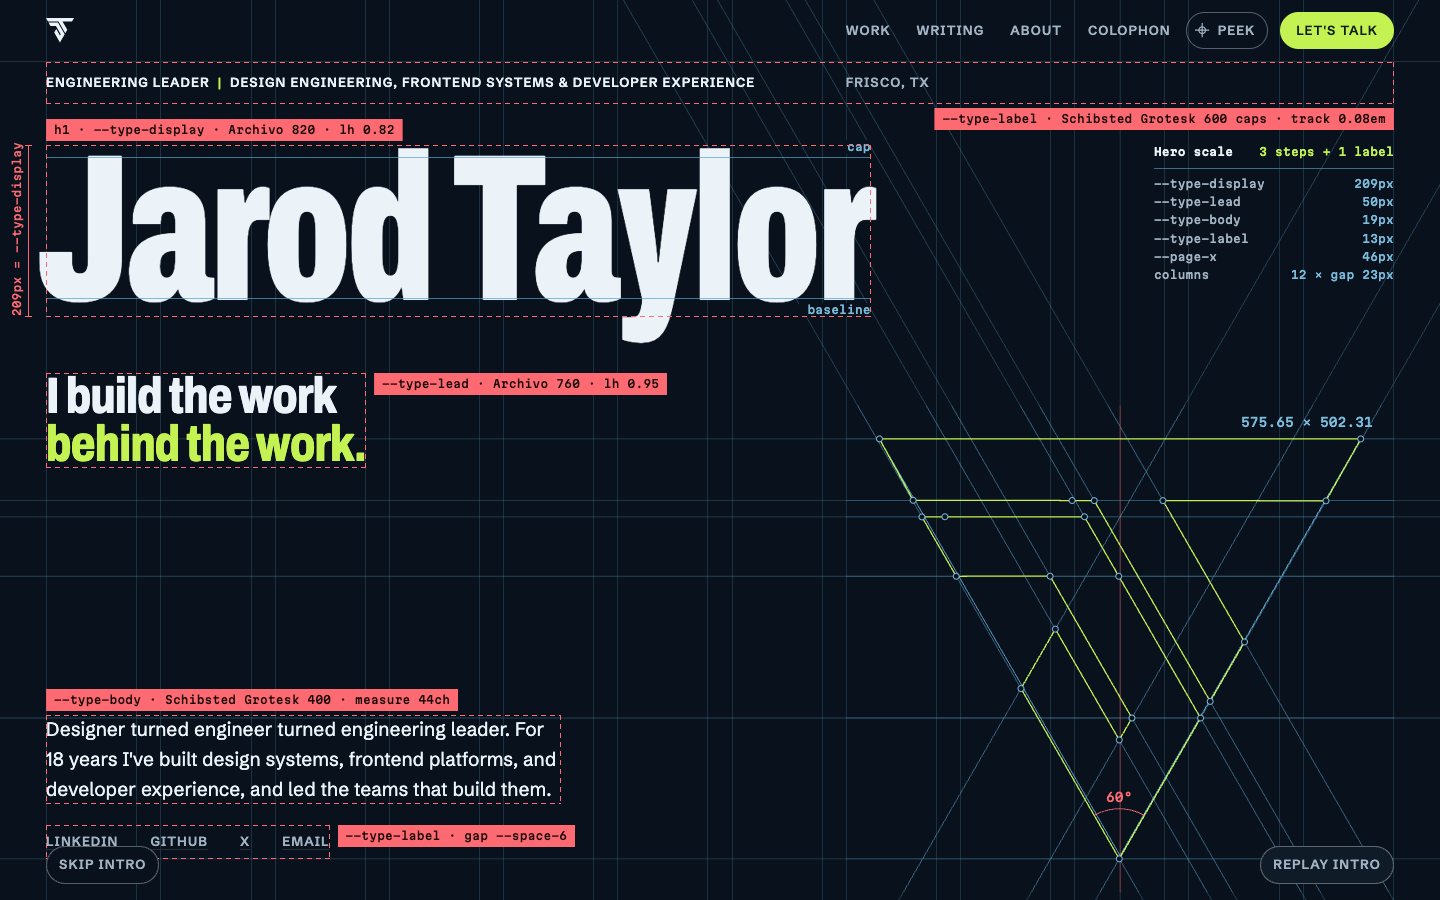
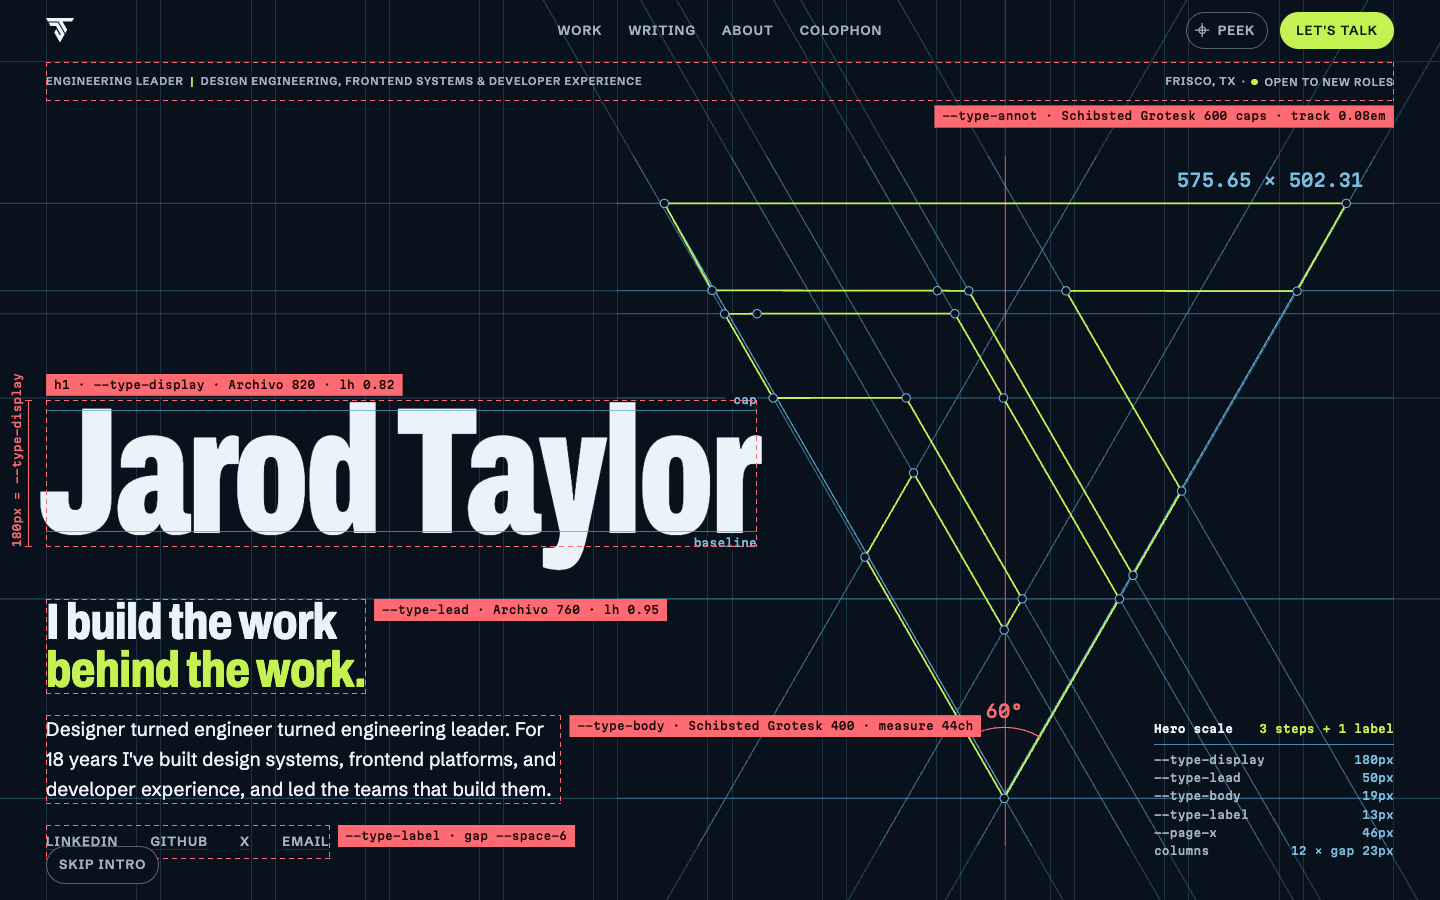
proto(r6-backstage): default brand tweaks: bottom-left stack, centred mark, 3-zone header, status in info strip

diff --git a/prototypes/r6-backstage/styles.css b/prototypes/r6-backstage/styles.css
@@ -41,7 +41,9 @@
   --type-annot: clamp(0.6875rem, 0.5rem + 0.2vw, 0.875rem); /* backstage only: the Peek layer's measurements */
   --measure: 44ch;
   --mark-phone: 0.3;   /* the monogram's strength behind the name on a phone (tools/contrast.mjs checks it) */
-  --mark-h: 64svh;     /* the monogram's tallest size on wide screens; its column width caps it first */
+  /* The monogram's tallest size on wide screens: the whole hero, header and info strip taken out.
+     Its column width caps it first on anything narrower than about 16:10. */
+  --mark-h: calc(100svh - var(--header-h) - 2 * var(--rhythm) - 4rem);
 
   /* Motion: one decisive in-out for anything that draws, an expo-out for anything that arrives. */
   --ease-out: cubic-bezier(0.16, 1, 0.3, 1);
@@ -94,7 +96,7 @@
   :root {
     --cols: 12;
     /* One line of name, sized by whichever runs out first: width or height. */
-    --type-display: min(14.5vw, 24svh);
+    --type-display: min(12.5vw, 21svh);
     --type-lead: min(3.5vw, 5.8svh);
   }
 }
@@ -154,8 +156,7 @@ ul { padding: 0; list-style: none; }
 .talk,
 .info,
 .social,
-.skip-intro,
-.dev {
+.skip-intro {
   font-family: var(--font-text);
   font-size: var(--type-label);
   font-weight: 600;
@@ -295,29 +296,23 @@ main { display: grid; }
 }
 .talk:hover { background: var(--color-ink); color: var(--color-bg); }
 
-/* Wide screens: the header shares the hero's 12 columns. The nav starts on column 8, the same line as the
-   location below it and the monogram below that, so the right side of the page reads as one column. */
+/* Wide screens: three zones. Mark left, nav on the page's centre line, Peek and Let's talk right. */
 @media (min-width: 64rem) {
-  .masthead {
-    display: grid;
-    grid-template-columns:
-      calc((100% - 11 * var(--col-gap)) * 7 / 12 + 7 * var(--col-gap) - var(--space-3))
-      1fr auto auto;
-    column-gap: var(--space-3);
-  }
-  .mark { justify-self: start; }
+  .nav { position: absolute; left: 50%; translate: -50% 0; }
   .peek-toggle { padding: 0 var(--space-3) 0 var(--space-2); }
   .peek-word { display: inline; }
 }
 
-/* Info strip: role and location in the label style, on a hairline that bleeds to both screen edges
-   (an outset border image, so it costs no pseudo-element). */
+/* Info strip: role, location and status, a step under the label and muted, on a hairline that bleeds to both
+   screen edges (an outset border image, so it costs no pseudo-element). */
 .info {
   position: relative;
   z-index: 5;
   display: flex;
   flex-direction: column;
   gap: var(--space-1);
+  font-size: var(--type-annot);
+  color: var(--color-ink-muted);
   margin-inline: var(--page-x);
   padding-block: var(--space-3);
   border-top: var(--line-hair) solid;
@@ -325,16 +320,26 @@ main { display: grid; }
 }
 .role { text-wrap: balance; }
 .role .sep { color: var(--color-accent); padding-inline: 0.3em; }
-.loc { color: var(--color-ink-muted); }
+.dot { padding-inline: 0.5em; }
+
+/* Open to new roles: a small lime dot with a slow ring breathing out of it. Static under reduced motion. */
+.status { display: inline-flex; align-items: center; gap: 0.6em; }
+.status::before {
+  content: "";
+  width: 0.6em;
+  height: 0.6em;
+  border-radius: 50%;
+  background: var(--color-accent);
+  animation: status 2.4s var(--ease-out) infinite;
+}
+@keyframes status {
+  0% { box-shadow: 0 0 0 0 color-mix(in oklch, var(--color-accent) 55%, transparent); }
+  70%, 100% { box-shadow: 0 0 0 0.55em transparent; }
+}
 
 @media (min-width: 64rem) {
-  .info {
-    display: grid;
-    grid-template-columns: repeat(12, minmax(0, 1fr));
-    column-gap: var(--col-gap);
-  }
-  .role { grid-column: 1 / 8; text-wrap: wrap; }
-  .loc { grid-column: 8 / -1; }
+  .info { flex-direction: row; justify-content: space-between; gap: var(--space-6); }
+  .role { text-wrap: wrap; }
 }
 
 /* Hero ---------------------------------------------------------------------- */
@@ -354,6 +359,7 @@ main { display: grid; }
   z-index: 1;
   display: flex;
   flex-direction: column;
+  justify-content: flex-end;
   align-items: flex-start;
 }
 
@@ -384,9 +390,8 @@ main { display: grid; }
 }
 .tagline .hl { display: block; color: var(--color-accent); }
 
-/* Bio and socials sit on the hero's floor, level with the foot of the monogram. */
-.tagline { margin-bottom: var(--rhythm); }
-.bio { margin-top: auto; max-width: var(--measure); text-wrap: pretty; }
+/* One rhythm down the block: the whole stack sits on the hero's floor, bottom left. */
+.bio { margin-top: var(--rhythm-tight); max-width: var(--measure); text-wrap: pretty; }
 
 .social { display: flex; flex-wrap: wrap; gap: var(--space-1) var(--space-6); margin-top: var(--rhythm-tight); }
 .social a {
@@ -421,17 +426,14 @@ main { display: grid; }
 @media (min-width: 48rem) {
   .figure {
     position: static;
-    grid-column: 8 / -1;
+    grid-column: 6 / -1;
     grid-row: 1;
-    align-self: end;
-    justify-self: end;
+    align-self: center;
+    justify-self: center;
     width: 100%;
     max-width: calc(var(--mark-h) * 655.65 / 582.31);
     opacity: 1;
   }
-  /* The viewBox overruns the mark by 40 units so its guides can extend past it; drop by that much so the
-     visible floor of the mark, not its box, shares a floor with the social links. */
-  .mono { translate: 0 calc(100% * 40 / 582.31); }
 }
 
 /* Construction: every stroke is drawn with pathLength="1", so one dash value draws any line. */
@@ -605,11 +607,11 @@ main { display: grid; }
   translate: 0 calc((1 - var(--lab)) * 100%);
   clip-path: inset(0 0 calc((1 - var(--lab)) * 100%) 0);
 }
-/* The tagline and socials are short, so their labels sit off their right edge, in open space, and slide out sideways.
+/* The tagline, bio and socials leave open space on their right, so their labels sit off that edge and slide out sideways.
    The info strip's label hangs from its right end, clear of the name's label on the left. */
 @media (min-width: 48rem) {
   .info[data-peek]::after { left: auto; right: 0; }
-  :is(.tagline, .social)[data-peek]::after {
+  :is(.tagline, .bio, .social)[data-peek]::after {
     left: calc(100% + var(--space-2));
     bottom: auto;
     top: 0;
@@ -739,14 +741,14 @@ main { display: grid; }
   :root:not([data-peek-state]) .name-block:hover .dim b { opacity: 1; transition: opacity 0.3s var(--ease-out) 0.3s; }
 }
 
-/* 5. The hero-scale card: top right, above the mark, typed in one row at a time. Wide screens only. */
+/* 5. The hero-scale card: bottom right, beside the mark's narrow foot, typed in one row at a time. Wide screens only. */
 .spec { display: none; }
 @media (min-width: 64rem) {
   .spec {
     display: grid;
     gap: var(--space-1);
     position: absolute;
-    top: var(--rhythm);
+    bottom: var(--rhythm);
     right: var(--page-x);
     z-index: 3;
     min-width: 15rem;
@@ -776,8 +778,7 @@ main { display: grid; }
 
 /* Intro controls ------------------------------------------------------------ */
 
-.skip-intro,
-.dev {
+.skip-intro {
   position: fixed;
   bottom: var(--space-4);
   z-index: 40;
@@ -790,15 +791,11 @@ main { display: grid; }
   cursor: pointer;
 }
 .skip-intro { left: var(--page-x); display: none; }
-.skip-intro:hover,
-.dev:hover { color: var(--color-ink); border-color: var(--color-ink); }
+.skip-intro:hover { color: var(--color-ink); border-color: var(--color-ink); }
 .intro .skip-intro { display: block; }
 
 /* One frame without transitions, so a skip lands on the resting state instead of animating to it. */
 .settling *, .settling *::before, .settling *::after { transition: none !important; }
-
-/* Prototype control (not part of the design): bottom right, out of the composition. */
-.dev { right: var(--page-x); background: var(--color-surface); }
 
 /* Reduced motion: nothing moves. The intro never starts, Peek is a cut instead of a draw, the pen rests. */
 @media (prefers-reduced-motion: reduce) {

diff --git a/prototypes/r6-backstage/index.html b/prototypes/r6-backstage/index.html
@@ -72,9 +72,9 @@
       <a class="talk" href="mailto:contact@jarodtaylor.com">Let's talk</a>
     </header>
 
-    <p class="info" data-peek data-spec="--type-label · {f} caps · track 0.08em">
+    <p class="info" data-peek data-spec="--type-annot · {f} caps · track 0.08em">
       <span class="role">Engineering Leader <span class="sep">|</span> Design Engineering, Frontend Systems &amp; Developer Experience</span>
-      <span class="loc">Frisco, TX</span>
+      <span class="loc">Frisco, TX<span class="dot" aria-hidden="true">·</span><span class="status">Open to new roles</span></span>
     </p>
 
     <main id="main">
@@ -163,9 +163,6 @@
   </div>
 
   <button class="skip-intro" type="button" data-skip-intro>Skip intro</button>
-
-  <!-- Prototype only: replay the intro. Not part of the design. -->
-  <button class="dev" type="button" data-replay>Replay intro</button>
 
   <script src="hero.js" defer></script>
 </body>

diff --git a/prototypes/r6-backstage/hero.js b/prototypes/r6-backstage/hero.js
@@ -50,7 +50,7 @@
       display: px(cs('.name').fontSize),
       lead: px(cs('.tagline').fontSize),
       body: px(cs('.bio').fontSize),
-      label: px(cs('.info').fontSize),
+      label: px(cs('.social').fontSize),
       'page-x': px(hero.paddingLeft),
       cols: `${hero.getPropertyValue('--cols').trim()} × gap ${px(hero.columnGap)}`,
     };
@@ -157,15 +157,4 @@
   addEventListener('resize', readouts);
   document.fonts.ready.then(readouts);
   if (root.dataset.peekState === 'arm') intro();
-
-  // Prototype control: replay the intro.
-  $('[data-replay]').addEventListener('click', () => {
-    if (matchMedia('(prefers-reduced-motion: reduce)').matches) return;
-    settle();
-    requestAnimationFrame(() => requestAnimationFrame(() => {
-      root.classList.add('intro');
-      setState('arm');
-      intro();
-    }));
-  });
 })();
